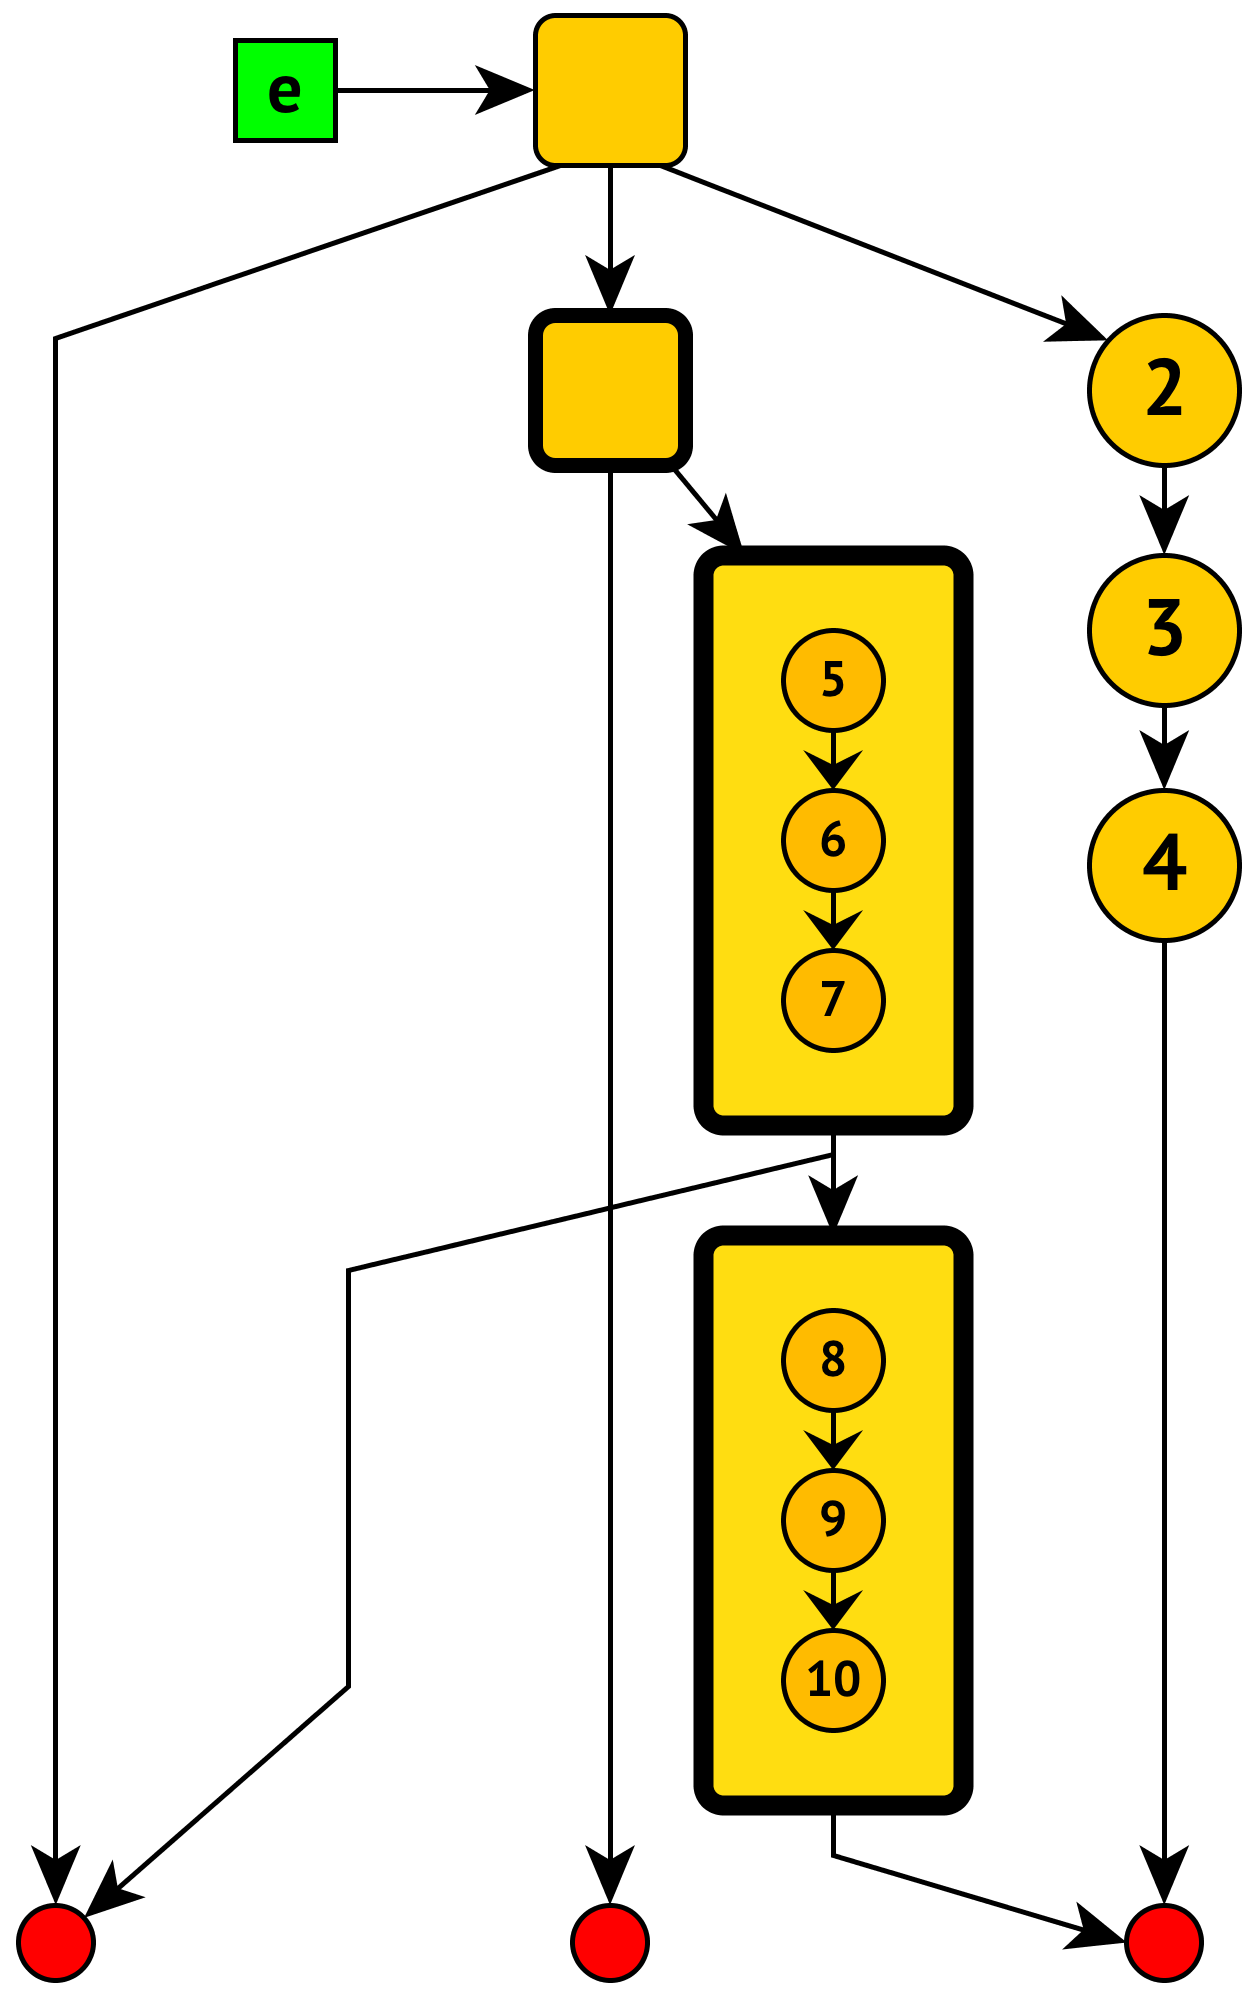
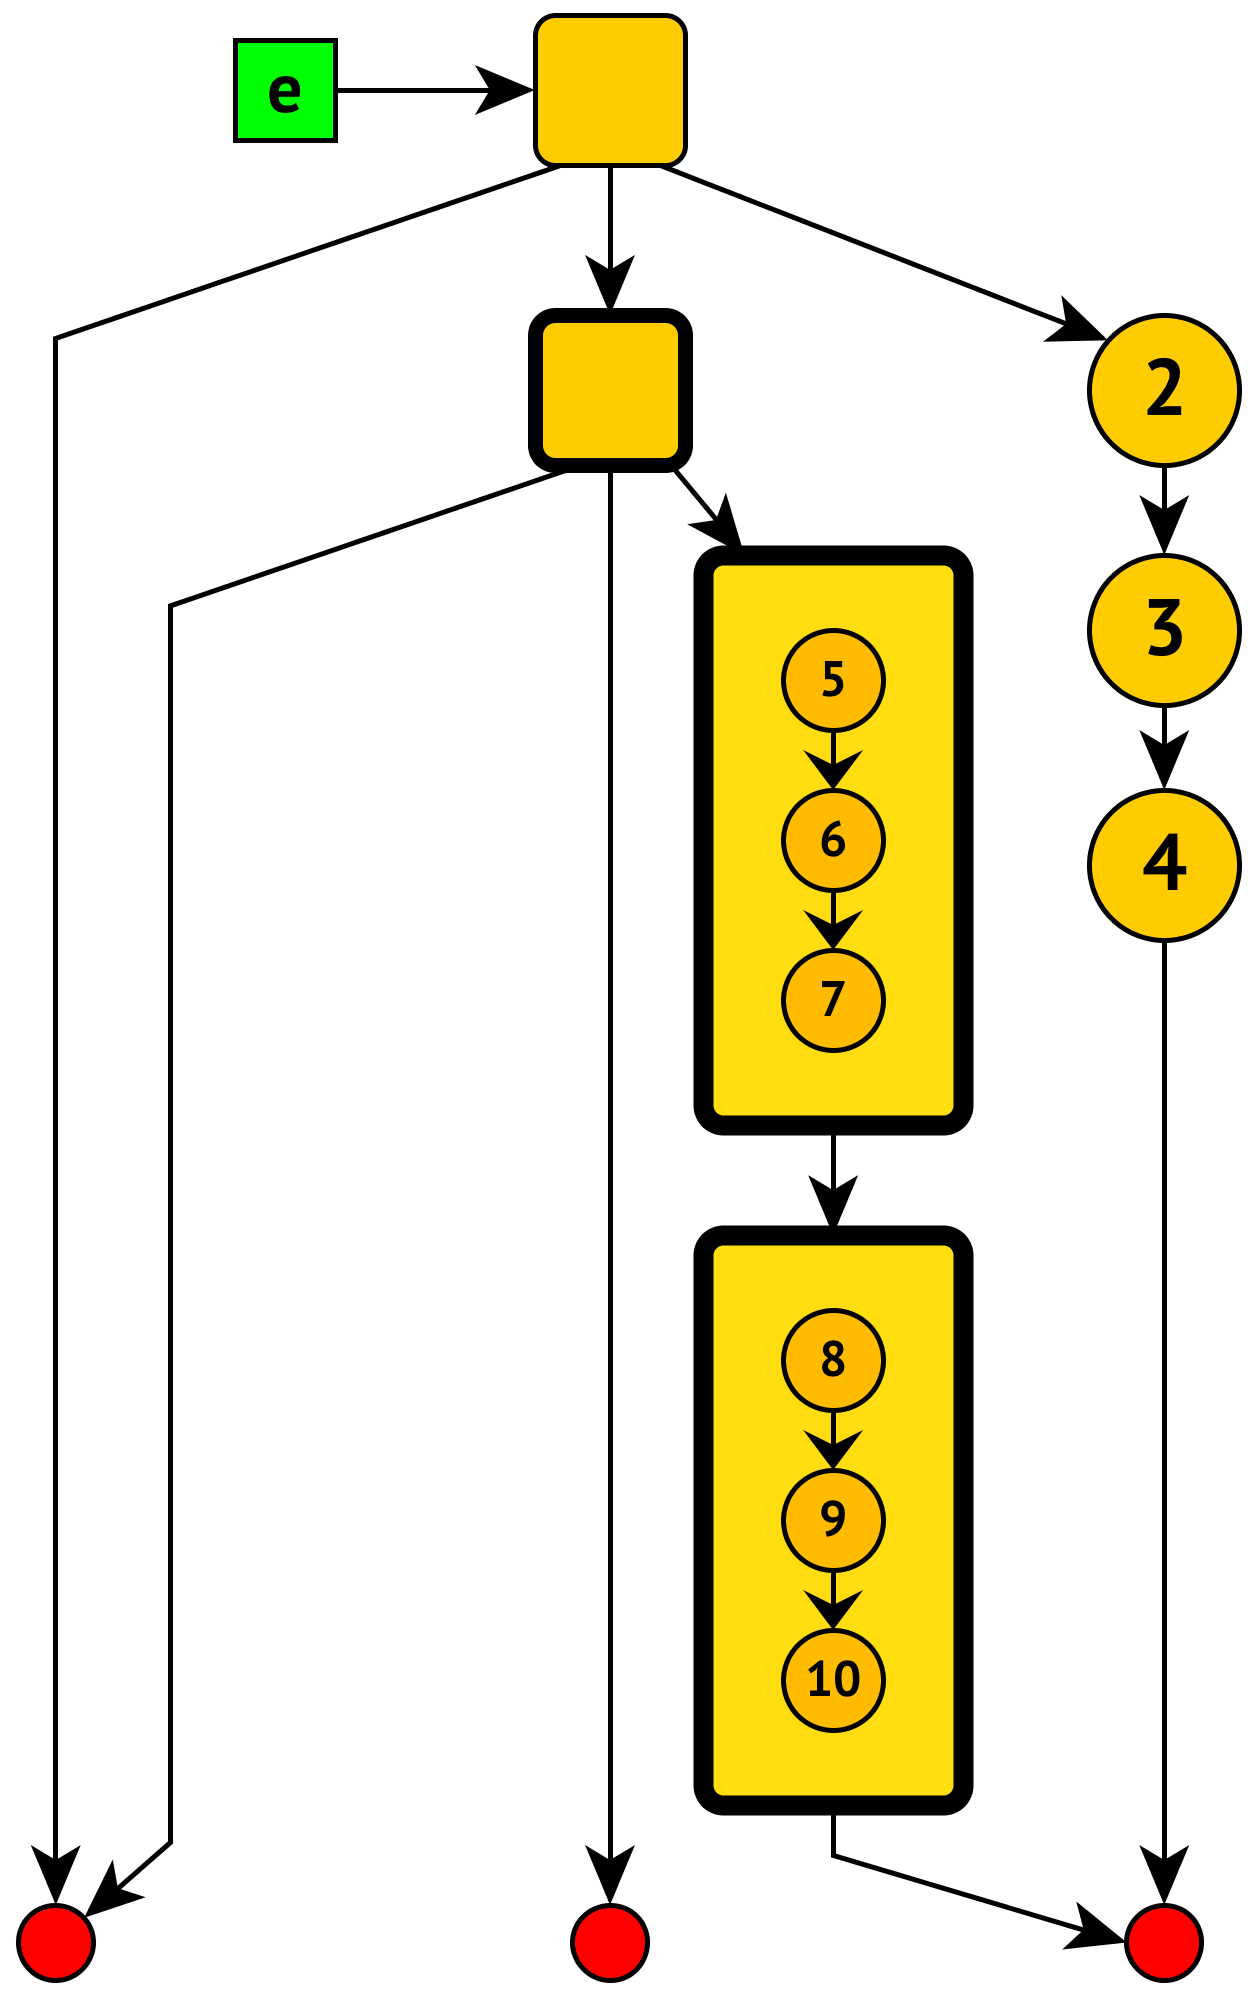
done

Changed region(s): [[0.1243, 0.3108, 0.1554, 0.9323], [0.2486, 0.6526, 0.2797, 0.8702], [0.1865, 0.8702, 0.2175, 0.9013]]

diff --git a/index.html b/index.html
@@ -351,6 +351,7 @@ public static &lt;E&gt; Stack&lt;E&gt; empty() {
   <ul>
     <li>Common substructure can be shared between copies</li>
     <li>Somewhat similar to copy-on-write, but easier and more efficient</li>
+    <li>Also note: stable identity! We could even memoize hashCode...</li>
   </ul>
 </section>
 
@@ -615,12 +616,8 @@ public class LockQueue&lt;E&gt; {
   <ul>
     <li class="fragment">Amortized analysis is unsuitable for real-time applications</li>
     <li class="fragment">Need better worst-case performance</li>
-    <li class="fragment">Divide and conquer: break rotate into chunks, recursively</li>
+    <li class="fragment">Same approach, new invariant: stacks can be at most 3 elements long</li>
   </ul>
-</section>
-
-<section>
-  <h1>TODO: fix bug in diagrams</h1>
 </section>
 
 <section>
@@ -773,11 +770,39 @@ public static &lt;E&gt; Queue&lt;E&gt; empty() {
 </section>
 
 <section>
+  <h1><b>How</b> did we get here?</h1>
+</section>
+
+<section>
+  <h2>Problem 1: Unstable identity</h2>
+  <p>Solved, trivially.</p>
+</section>
+
+<section>
+  <h2>Problem 2: Behavioral subtyping</h2>
+  <p>Not solved, but making state change visible (by returning copies) helps.</p>
+</section>
+
+<section>
+  <h2>Problem 3: Defensive copying</h2>
+  <p>Solved efficiently with persistent data structures.</p>
+</section>
+
+<section>
   <h2>Point being</h2>
-  <p>not suggesting using persistent queues for real-time messaging (use disruptor!)</p>
-  <p>instead, suggesting that performance is good while offering persistence (sharing of substructure)</p>
-  <p>mention vector tries, hash array mapped tries</p>
-  <p>would be nice if java had these built in</p>
+  <ul>
+    <li class="fragment"><b>Not</b> recommending persistent queues for messaging (use Disruptor!)</li>
+    <li class="fragment">But performance is <b>very good</b> for general use</li>
+    <li class="fragment">Very efficient, persistent implementations exist for:
+      <ul>
+        <li>Random-access vectors (bit-mapped vector tries)</li>
+        <li>Unordered sets and maps (hash array mapped tries)</li>
+        <li>Ordered sets and maps (persistent red-black trees)</li>
+        <li>etc.</li>
+      </ul>
+    </li>
+    <li class="fragment">I'd like to see these in the Java standard library</li>
+  </ul>
 </section>
 
 <section>
